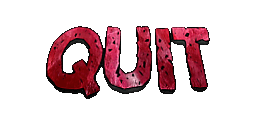
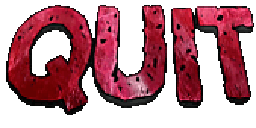
Play again option added to game over screen.

diff --git a/murderhobo/src/com/github/binome/murderhobo/scenes/Level1.java b/murderhobo/src/com/github/binome/murderhobo/scenes/Level1.java
@@ -17,8 +17,8 @@ import com.github.binome.murderhobo.entities.Monster;
 import com.github.binome.murderhobo.entities.Treasure;
 
 public class Level1 extends Level {
-	public final int CELLS_WIDE = 60;
-	public final int CELLS_TALL = 40;
+	public final static int CELLS_WIDE = 60;
+	public final static int CELLS_TALL = 40;
 	private Scene nextScene;
 
 	// Amount of time for pow effect to display when player is injured
@@ -33,7 +33,7 @@ public class Level1 extends Level {
 	/**
 	 * Draws the level and places Entities
 	 */
-	private void initLevel() {
+	private static void initLevel() {
 		murderMode = false;
 		Main.aman.play("level1-peaceful");
 		SoundStore.get().setCurrentMusicVolume(Reference.musicVolume);
@@ -42,6 +42,7 @@ public class Level1 extends Level {
 		monsters = new LinkedList<Monster>();
 		treasures = new LinkedList<Treasure>();
 		createGrid();
+		Hero.getInstance().setLoc(64, 64);
 
 		placeMoney();
 		placeEntities();
@@ -153,7 +154,7 @@ public class Level1 extends Level {
 		}
 	}
 
-	private void createGrid() {
+	private static void createGrid() {
 		// initialize with default texture
 		for (int i = 0; i < CELLS_WIDE; i++) {
 
@@ -299,12 +300,12 @@ public class Level1 extends Level {
 	public Level getInstance() {
 		if (instance == null) {
 			instance = new Level1();
-			Hero.getInstance().setLoc(64, 64);
+			//Hero.getInstance().setLoc(64, 64);
 		}
 		return instance;
 	}
 
-	private void placeEntities() {
+	private static void placeEntities() {
 		Monster mon1 = new Monster();
 		mon1.setLoc(12 * Reference.GRID_SIZE, 9 * Reference.GRID_SIZE);
 		monsters.add(mon1);
@@ -374,7 +375,7 @@ public class Level1 extends Level {
 		SoundStore.get().setCurrentMusicVolume(Reference.musicVolume);
 	}
 
-	private void placeMoney() {
+	private static void placeMoney() {
 		Treasure t1 = new Treasure(Reference.LOOT_DEFAULT);
 		t1.setLoc(10 * Reference.GRID_SIZE, 8 * Reference.GRID_SIZE);
 		treasures.add(t1);
@@ -422,6 +423,10 @@ public class Level1 extends Level {
 
 	public void applyPow() {
 		powTimer = 0;
+	}
+
+	public static void reset() {
+		initLevel();
 	}
 
 }

diff --git a/murderhobo/src/com/github/binome/murderhobo/scenes/GameOver.java b/murderhobo/src/com/github/binome/murderhobo/scenes/GameOver.java
@@ -54,9 +54,13 @@ public class GameOver extends Scene {
 			Main.guiFont.drawString((Reference.SCR_WIDTH - Main.guiFont.getWidth(s4)) / 2, 128, s4);
 		}
 
-		Fixture quit = new Fixture(256, 128, "res/title/Quit-end.png");
+		Fixture quit = new Fixture(256, 128, "res/title/QUIT-End.png");
 		quit.setLoc((Reference.SCR_WIDTH - quit.getWidth()) / 2, (int) (.8 * Reference.SCR_HEIGHT));
 		quit.draw();
+		
+		Fixture replay = new Fixture(512, 128, "res/title/PLAY-AGAIN.png");
+		replay.setLoc((Reference.SCR_WIDTH - replay.getWidth()) / 2, (int) (.6 * Reference.SCR_HEIGHT));
+		replay.draw();
 
 		while (Mouse.next()) {
 			if (Mouse.getEventButtonState()) {
@@ -70,6 +74,12 @@ public class GameOver extends Scene {
 					if (quit.getHitBox().contains(p)) {
 						// System.out.println("Clicked quit.");
 						exit();
+					}
+					if (replay.getHitBox().contains(p)) {
+						// System.out.println("Clicked quit.");
+						Main.reset();
+						nextScene = new StartMenu();
+						return false;
 					}
 				}
 			}

diff --git a/murderhobo/src/com/github/binome/murderhobo/entities/Hero.java b/murderhobo/src/com/github/binome/murderhobo/entities/Hero.java
@@ -16,6 +16,7 @@ import com.github.binome.murderhobo.map.Cell;
 import com.github.binome.murderhobo.scenes.Level;
 
 public class Hero extends InertialSprite {
+	private final int STARTING_HEALTH = 4;
 	private int score;
 	private float speed = 0.05f;
 	private float maxSpeed = 0.32f;
@@ -39,7 +40,7 @@ public class Hero extends InertialSprite {
 	public Hero(int width, int height, Image i) {
 		super(width, height, i);
 		killCount = 0;
-		health = 4;
+		health = STARTING_HEALTH;
 	}
 
 	public void draw() {
@@ -222,5 +223,12 @@ public class Hero extends InertialSprite {
 			lvl.getInstance().applyPow();
 			invulnTimer = 0;
 		}
+	}
+
+	public void reset() {
+		health = STARTING_HEALTH;
+		score = 0;
+		killCount = 0;
+		velocity = new Vector2f(0.0f, 0.0f);
 	}
 }

diff --git a/murderhobo/src/com/github/binome/murderhobo/Main.java b/murderhobo/src/com/github/binome/murderhobo/Main.java
@@ -12,7 +12,9 @@ import org.newdawn.slick.Image;
 import org.newdawn.slick.SlickException;
 import org.lwjgl.LWJGLException;
 
+import com.github.binome.murderhobo.entities.Hero;
 import com.github.binome.murderhobo.entities.SimpleEntity;
+import com.github.binome.murderhobo.scenes.Level1;
 import com.github.binome.murderhobo.scenes.Scene;
 import com.github.binome.murderhobo.scenes.StartMenu;
 
@@ -143,5 +145,10 @@ public class Main {
 		Image img = new Image("res/font/League_Gothic_0.png",false,Image.FILTER_NEAREST);
 		guiFont = new AngelCodeFont("res/font/League_Gothic.fnt", img);
 		guiBG = new SimpleEntity(Reference.SCR_WIDTH,32,(Color) Color.BLACK);
+	}
+
+	public static void reset() {
+		Level1.reset();
+		Hero.getInstance().reset();
 	}
 }

diff --git a/murderhobo/src/com/github/binome/murderhobo/scenes/Level.java b/murderhobo/src/com/github/binome/murderhobo/scenes/Level.java
@@ -16,14 +16,14 @@ import com.github.binome.murderhobo.map.Cell;
 public abstract class Level extends Scene {
 	public final int CELLS_WIDE = 0;
 	public final int CELLS_TALL = 0;
-	protected boolean murderMode;
+	protected static boolean murderMode;
 	protected int xScale = 400;
 	protected int yScale = 300;
 	
 	private Scene nextScene;
 
 	public static Level instance;
-	protected Cell[][] grid;
+	protected static Cell[][] grid;
 
 	protected static LinkedList<Arrow> arrows;
 	protected static LinkedList<Monster> monsters;
